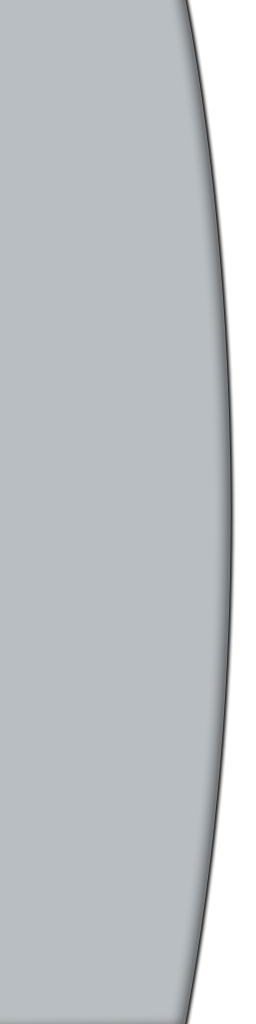
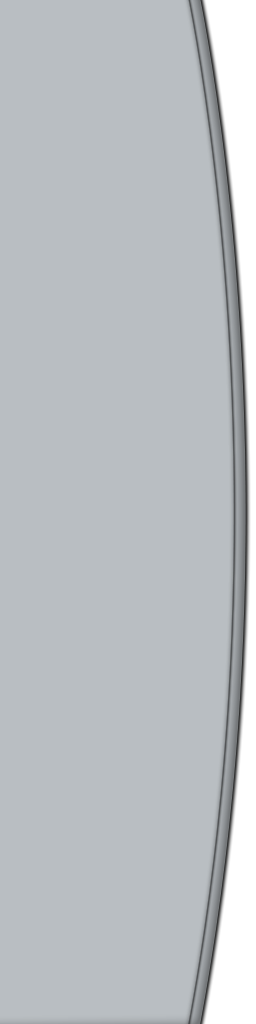
fixed positioning

Changed region(s): [[0.6875, 0.0, 1.0, 1.0]]

diff --git a/src/components/MenuUnderlay/component.tsx b/src/components/MenuUnderlay/component.tsx
@@ -34,6 +34,7 @@ export function MenuUnderlay({ offset = 0 }: MenuUnderlayProps) {
     const isActive = currentPage - offset - 1 === 0
     const previousFullyHideMenus = useRef(fullyHideMenus)
 
+    const left = `calc(15vh + ${offset} * 6.5vh)`
     useEffect(() => {
         const visibilityChanged = previousFullyHideMenus.current !== fullyHideMenus
 
@@ -64,7 +65,7 @@ export function MenuUnderlay({ offset = 0 }: MenuUnderlayProps) {
                 scaleX: initialAnimationCompleted && !fullyHideMenus ? 1 : SCALE_MAX,
                 scaleY: 1,
                 opacity: isActive || animateScale ? 1 : 0,
-                left: fullyHideMenus ? "26.2vh" : `calc(14vh + ${offset} * 6.1vh)`,
+                left: fullyHideMenus ? "26.2vh" : left,
                 transition: {delay: menuTransition && !fullyHideMenus ? MENU_TRANSITION_DELAY : 0, ease: "linear"}
             }}
             onAnimationComplete={() => {
@@ -103,7 +104,7 @@ export function MenuUnderlay({ offset = 0 }: MenuUnderlayProps) {
                 }
             }}
             style={{
-                left: `calc(14vh + ${offset} * 6.1vh)`,
+                left: left,
                 "--menu-underlay-z-index": UI_Z_INDEX - 2,
                 "--menu-underlay-offset": offset
             } as CSSProperties}

diff --git a/src/components/MenuUnderlay/component.css b/src/components/MenuUnderlay/component.css
@@ -1,5 +1,5 @@
 .menu-underlay {
-    width: calc(100vw - 50vh);
+    width: calc(100vw - 54vh);
     height: 85vh;
     top: 6vh;
     padding-left: -10%;
